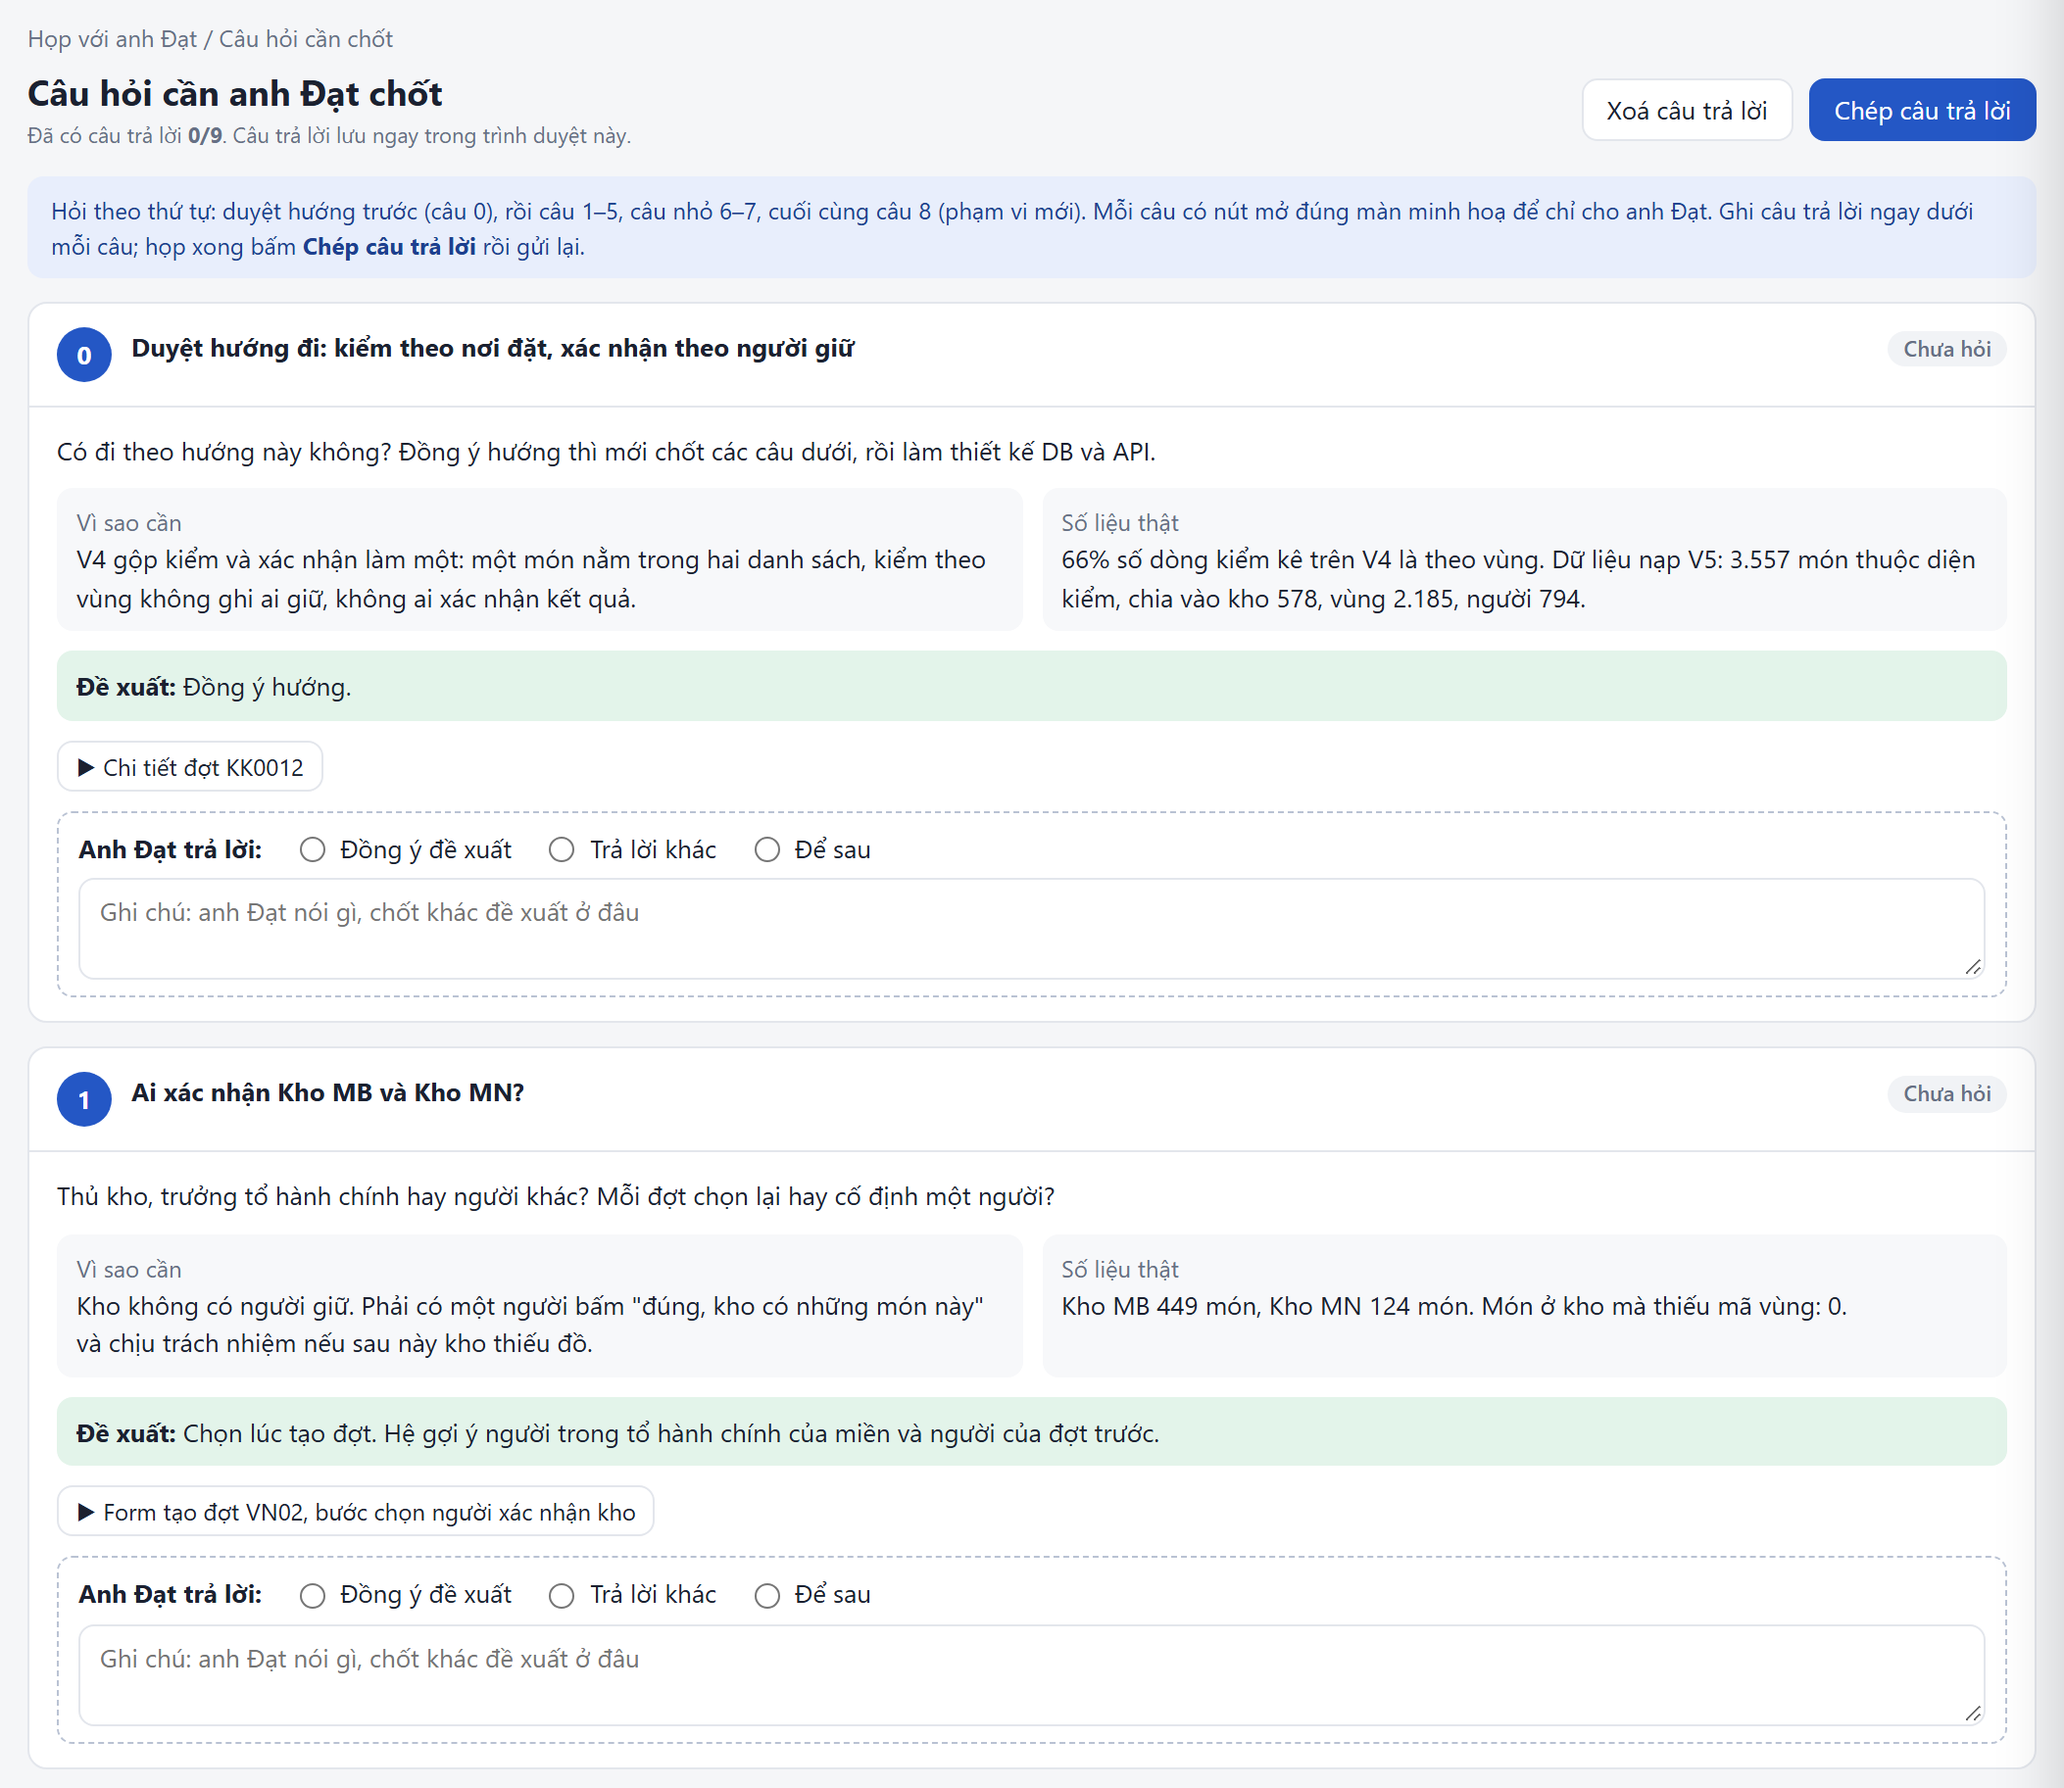
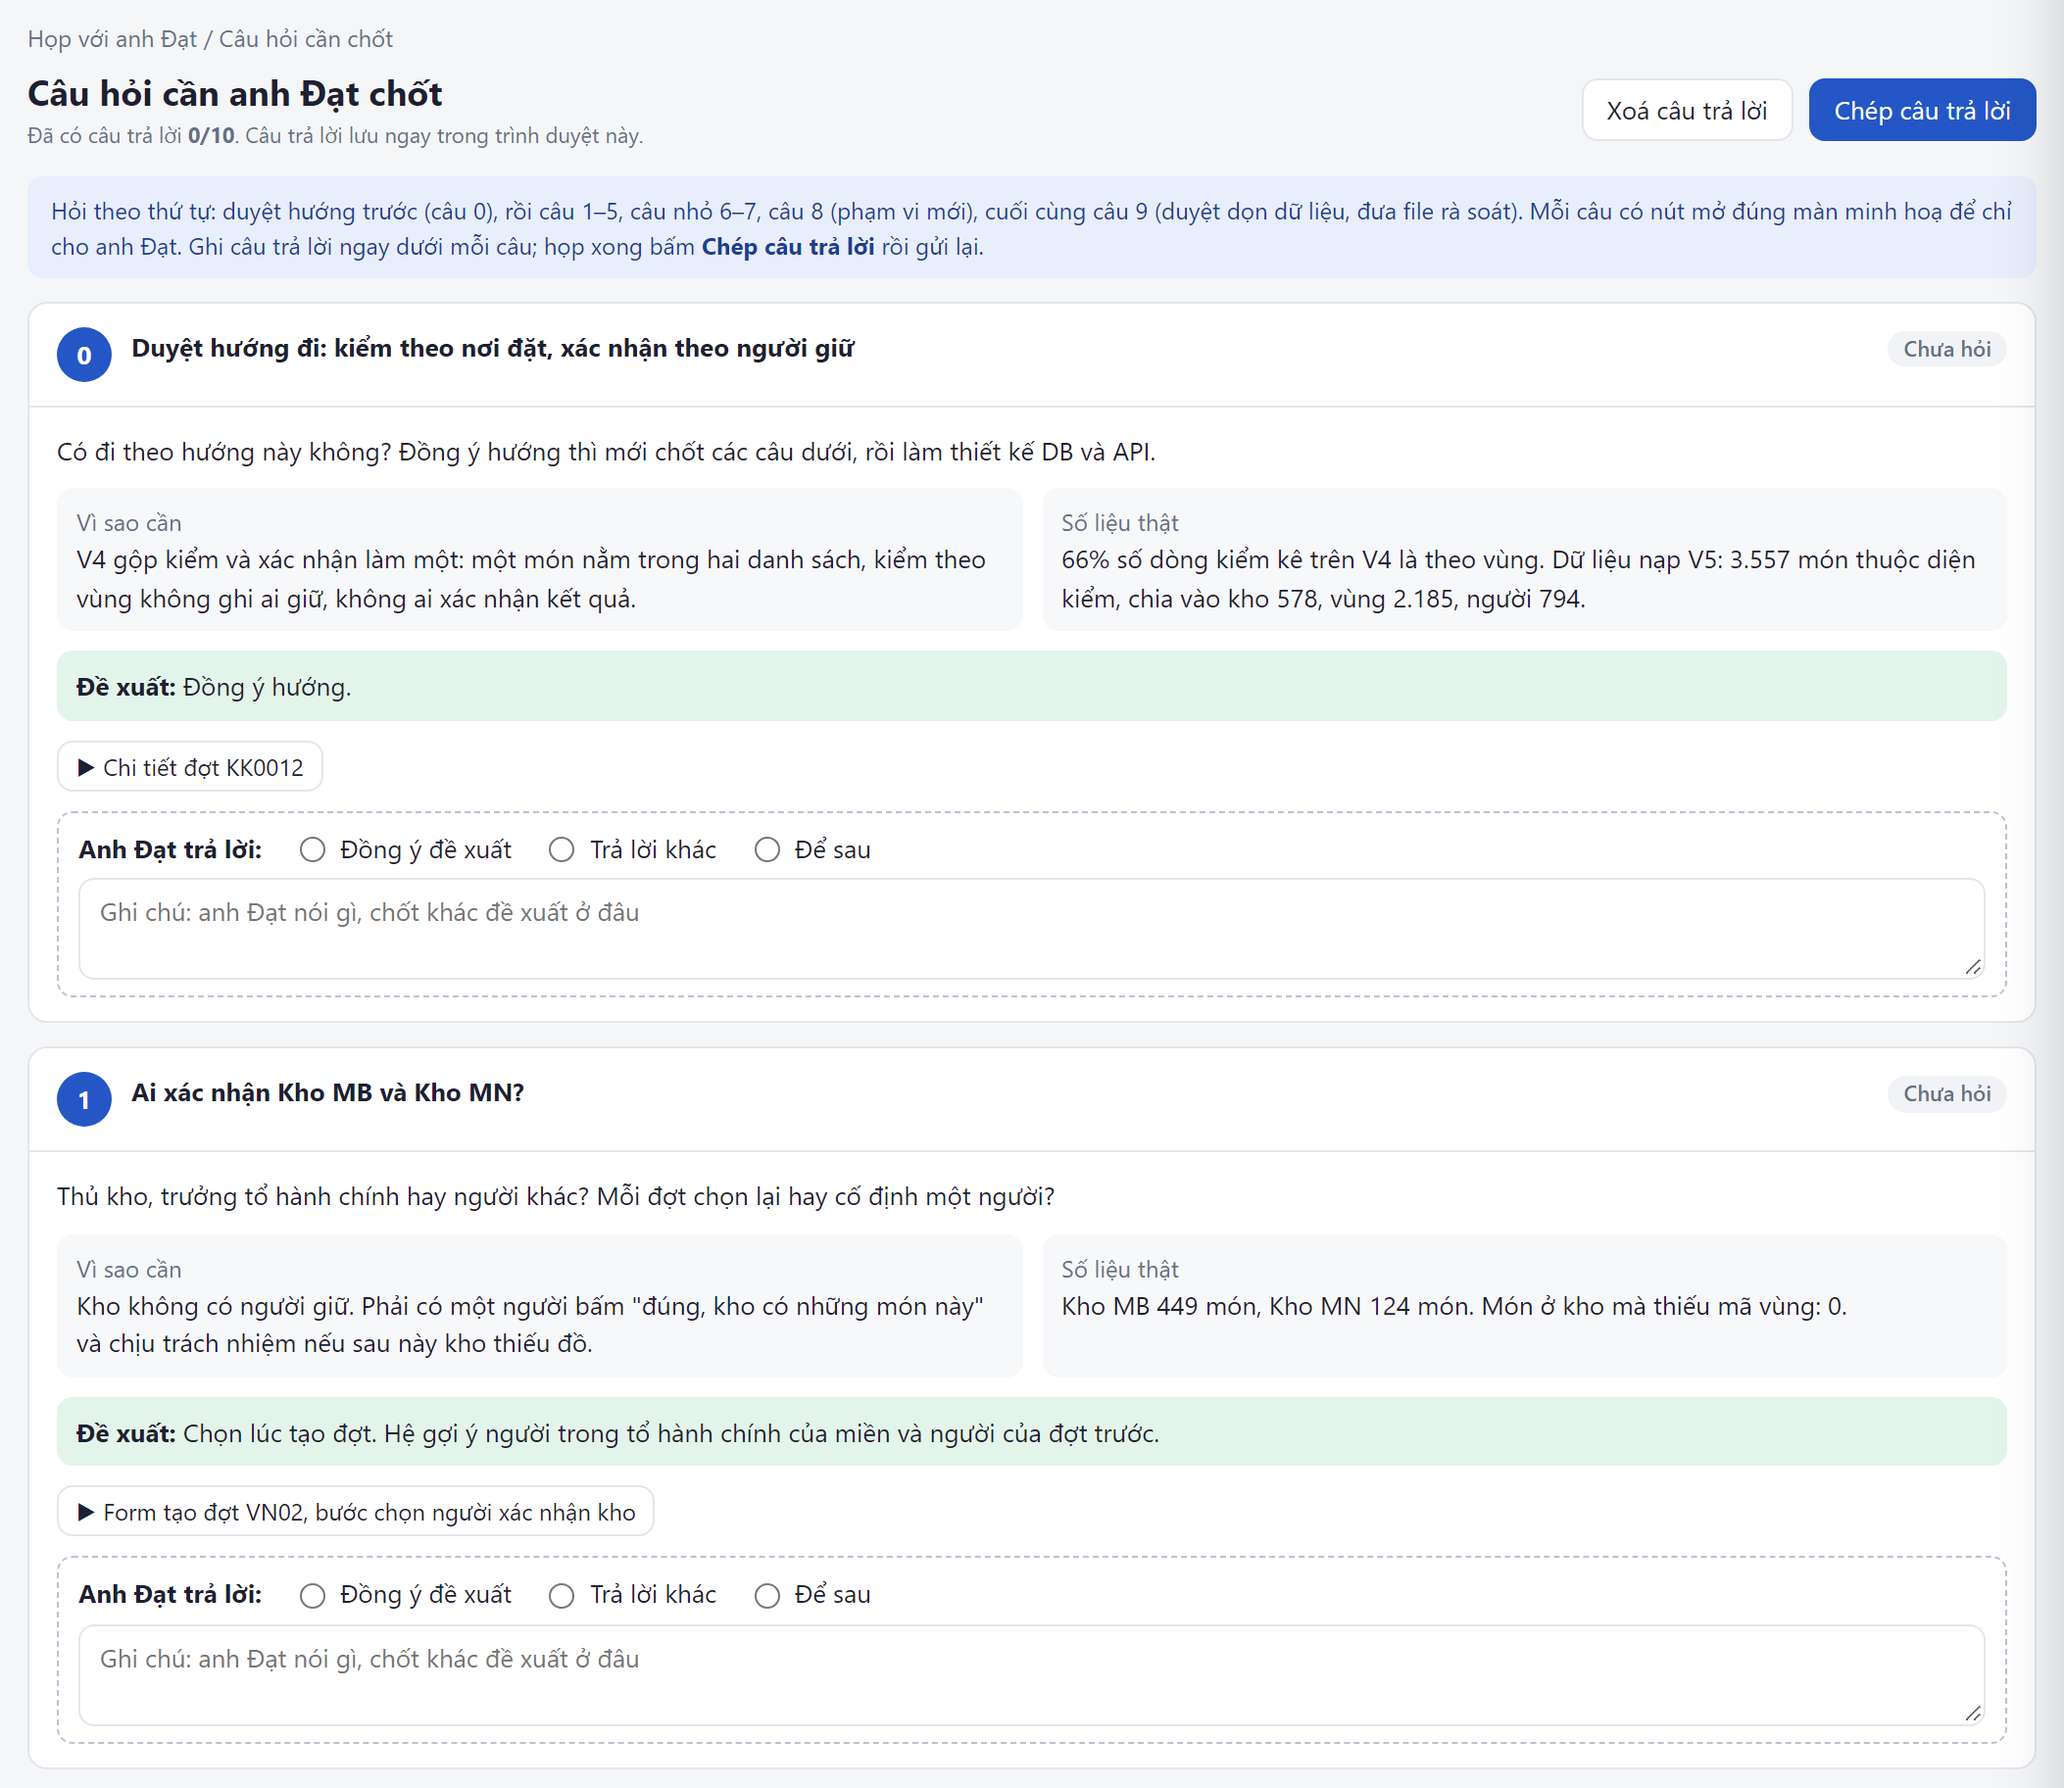
Menu Câu hỏi cần chốt: thêm câu 9 duyệt dọn dữ liệu trước đợt kiểm đầu

Changed region(s): [[0.0309, 0.0937, 0.9568, 0.1562], [0.0926, 0.0625, 0.3086, 0.0937]]

diff --git a/minh-hoa-tao-dot-kiem-ke.html b/minh-hoa-tao-dot-kiem-ke.html
@@ -233,7 +233,7 @@ h3{font-size:13px;margin:16px 0 8px}
     <a data-act="ve-app" id="mnApp">App kiểm kê (mobile)</a>
     <a>Báo cáo</a>
     <div class="grp" style="margin-top:14px">Họp với anh Đạt</div>
-    <a data-act="ve-cau" id="mnCauHoi">Câu hỏi cần chốt <span class="badge" id="badgeCau">9</span></a>
+    <a data-act="ve-cau" id="mnCauHoi">Câu hỏi cần chốt <span class="badge" id="badgeCau">10</span></a>
     <div class="grp" style="margin-top:14px">Ghi chú minh hoạ</div>
     <div style="font-size:11px;color:#8d97ab;padding:0 10px">"Kiểm kê" là màn của quản lý / hành chính. "NV xác nhận kiểm kê" là màn mỗi nhân viên thấy: danh sách phiếu xác nhận của chính mình, bản minh hoạ xem như anh Sơn. "App kiểm kê" là app điện thoại của người đi kiểm (chị Lan). "Báo cáo kiểm kê" xem nhiều công ty, nhiều đợt cùng lúc; "Tài sản của tôi" là màn nhân viên tự xem đồ mình đứng tên (câu 8). Mọi màn dùng chung dữ liệu.</div>
   </aside>
@@ -902,7 +902,11 @@ const CAU_HOI = [
     vi:'V4 vẫn kiểm các món này. Đồ chờ thanh lý vẫn là tài sản công ty, có thể mất trước khi thanh lý.', sl:'19 món, đều của VN02.', dx:'Vẫn kiểm, giữ như V4. Không cần anh quyết, chỉ báo.', demo:[] },
   { so:8, nho:'phạm vi mới', tieu:'Có làm Báo cáo kiểm kê và Tài sản của tôi không?', hoi:'(a) Menu riêng Báo cáo kiểm kê: theo tài sản và theo nhân viên, chọn nhiều công ty, nhiều đợt. (b) Màn Tài sản của tôi cho nhân viên, trên web và app.',
     vi:'Hiện chỉ xem được trong từng đợt. Không có chỗ nào cho biết món nào lâu rồi chưa kiểm, nhân viên nào nhiều đợt không được kiểm; nhân viên cũng không tự xem được mình đứng tên gì.',
-    sl:'Chỉ 192 món có ngày kiểm cuối trong 2025–2026.', dx:'Làm cả hai.', demo:[['Báo cáo theo tài sản','bc'],['Báo cáo theo nhân viên','bcnv'],['Tài sản của tôi (web)','toi'],['Tài sản của tôi (app)','app-toi']] }
+    sl:'Chỉ 192 món có ngày kiểm cuối trong 2025–2026.', dx:'Làm cả hai.', demo:[['Báo cáo theo tài sản','bc'],['Báo cáo theo nhân viên','bcnv'],['Tài sản của tôi (web)','toi'],['Tài sản của tôi (app)','app-toi']] },
+  { so:9, nho:'dọn dữ liệu', tieu:'Duyệt dọn dữ liệu trước đợt kiểm đầu tiên', hoi:'Duyệt file rà soát dữ liệu (7 nhóm, gửi riêng vì có mã nhân viên). Nhóm A sửa bằng script một lần, nhóm B hành chính lập phiếu điều chuyển. Kèm sửa phiếu điều chuyển kho → người để nhãn sai không sinh lại.',
+    vi:'Không dọn thì kiểm kê vẫn chạy, nhưng: 140 món ghi ở người đã nghỉ không có ai ký; một người hành chính phải ký 543 món đồ chung; sổ ghi Kho MB 1.134 món trong khi thực tế 449 món ở kho.',
+    sl:'Cần trước đợt đầu: A1 794 món ở người mang mã kho (đã chạy thử trên dev, đạt), B1 147 món ở người đã nghỉ / tạm nghỉ, B2 1.251 món đồ chung đứng tên 8 người. Nên làm: A2 656 ngày kiểm giả, B3 19 món sai kho, B4 21 món khác công ty. Lúc nào cũng được: A3 379 tên thừa ký tự.',
+    dx:'Duyệt nhóm "Cần trước đợt đầu", chạy A1 trên Online theo script đã thử. Đồ còn ghi ở người đã nghỉ lúc mở đợt: người được chỉ định lúc tạo đợt ký thay. Sửa phiếu điều chuyển: bắt buộc chọn vùng hoặc tự xoá mã kho khi đồ ra khỏi kho.', demo:[] }
 ];
 const KHOA_TL = 'kk-tra-loi-anh-dat-v1';
 let TL = (() => { try { return JSON.parse(localStorage.getItem(KHOA_TL)) || {}; } catch (e) { return {}; } })();
@@ -914,7 +918,7 @@ function veCauHoi() {
   $('vCauHoi').innerHTML = `<div class="crumb">Họp với anh Đạt / Câu hỏi cần chốt</div>
     <div class="head"><div><h1>Câu hỏi cần anh Đạt chốt</h1><div class="hint">Đã có câu trả lời <b>${daTl()}/${CAU_HOI.length}</b>. Câu trả lời lưu ngay trong trình duyệt này.</div></div>
       <div class="acts"><button class="btn" data-act="tl-xoa">Xoá câu trả lời</button><button class="btn primary" data-act="tl-chep">Chép câu trả lời</button></div></div>
-    <div class="alert info">Hỏi theo thứ tự: duyệt hướng trước (câu 0), rồi câu 1–5, câu nhỏ 6–7, cuối cùng câu 8 (phạm vi mới). Mỗi câu có nút mở đúng màn minh hoạ để chỉ cho anh Đạt. Ghi câu trả lời ngay dưới mỗi câu; họp xong bấm <b>Chép câu trả lời</b> rồi gửi lại.</div>
+    <div class="alert info">Hỏi theo thứ tự: duyệt hướng trước (câu 0), rồi câu 1–5, câu nhỏ 6–7, câu 8 (phạm vi mới), cuối cùng câu 9 (duyệt dọn dữ liệu, đưa file rà soát). Mỗi câu có nút mở đúng màn minh hoạ để chỉ cho anh Đạt. Ghi câu trả lời ngay dưới mỗi câu; họp xong bấm <b>Chép câu trả lời</b> rồi gửi lại.</div>
     ${CAU_HOI.map(c => { const t = TL[c.so] || {}; return `<div class="card cau ${S.cauMo === c.so ? 'on' : ''}" id="cau-${c.so}">
       <div class="cau-h"><span class="cau-so">${c.so}</span><div class="t"><b>${esc(c.tieu)}</b>${c.nho ? ` ${pill(c.nho, 'p-mute')}` : ''}</div><div>${t.chon ? pill(...TT_TL[t.chon]) : pill('Chưa hỏi', 'p-mute')}</div></div>
       <div class="cau-b"><p>${esc(c.hoi)}</p>

diff --git a/kiem-ke-mo-hinh-moi-phan-tich.html b/kiem-ke-mo-hinh-moi-phan-tich.html
@@ -591,7 +591,7 @@ a{color:var(--accent)}
 </div>
 
 <div class="card summary" style="margin:14px 0">
-  <p style="margin-top:0"><b>Trong buổi họp:</b> mở menu <a href="minh-hoa-tao-dot-kiem-ke.html?man=cau" target="_blank" rel="noopener">Câu hỏi cần chốt</a> của màn minh hoạ. Có đủ 9 câu (câu 0 là duyệt hướng đi), mỗi câu kèm lý do, số liệu thật, đề xuất và nút mở đúng màn minh hoạ để chỉ cho anh Đạt. Câu trả lời ghi ngay dưới mỗi câu, lưu trong trình duyệt; họp xong bấm <b>Chép câu trả lời</b> rồi gửi lại. Các nhãn "Chờ anh Đạt chốt" trong màn minh hoạ cũng bấm được để nhảy tới câu tương ứng.</p>
+  <p style="margin-top:0"><b>Trong buổi họp:</b> mở menu <a href="minh-hoa-tao-dot-kiem-ke.html?man=cau" target="_blank" rel="noopener">Câu hỏi cần chốt</a> của màn minh hoạ. Có đủ 10 câu (câu 0 là duyệt hướng đi, câu 9 là duyệt dọn dữ liệu trước đợt đầu), mỗi câu kèm lý do, số liệu thật, đề xuất và nút mở đúng màn minh hoạ để chỉ cho anh Đạt. Câu trả lời ghi ngay dưới mỗi câu, lưu trong trình duyệt; họp xong bấm <b>Chép câu trả lời</b> rồi gửi lại. Các nhãn "Chờ anh Đạt chốt" trong màn minh hoạ cũng bấm được để nhảy tới câu tương ứng.</p>
   <figure class="fig" style="margin:0"><img src="anh-minh-hoa/web-cau-hoi-anh-dat.png" alt="Menu Câu hỏi cần anh Đạt chốt: mỗi câu có vì sao cần, số liệu thật, đề xuất, nút mở màn minh hoạ, và ô ghi câu trả lời Đồng ý đề xuất, Trả lời khác, Để sau" loading="lazy">
   <figcaption>Menu Câu hỏi cần chốt: hỏi và ghi câu trả lời ngay trong màn minh hoạ.</figcaption></figure>
 </div>
